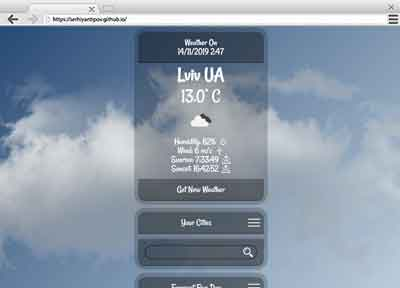
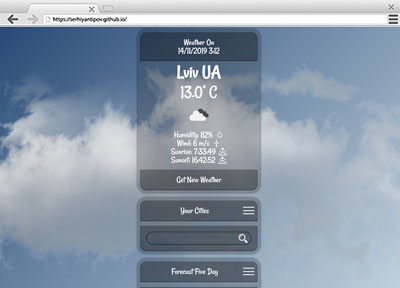
work version

diff --git a/site_10/js/index.js b/site_10/js/index.js
@@ -1,31 +1,27 @@
+const btnGetWeather = document.querySelector('.search-btn');
+const cityName = document.querySelector('.city-name');
+const weatherDate = document.querySelector('.weather-date');
+const temperature = document.querySelector('.temperature');
+const iconWeather = document.querySelector('.icon-weather');
+const humidity = document.querySelector('.humidity');
+const wind = document.querySelector('.wind');
+const sunrise = document.querySelector('.sunrise');
+const sunset = document.querySelector('.sunset');
+const newWeather = document.querySelector('.new-weather');
+const day5 = document.querySelector('.day-5');
+const threeHours = document.querySelector('.three-hours');
+const inputSearchCity = document.querySelector('.input-search-city');
+const defaultCity = ['lviv']
+const cityList = document.querySelector('.city-list');
 let weatherHour;
-let btnGetWeather = document.querySelector('.search-btn');
-
-let cityName = document.querySelector('.city-name');
-let weatherDate = document.querySelector('.weather-date');
-let temperature = document.querySelector('.temperature');
-let iconWeather = document.querySelector('.icon-weather');
-let humidity = document.querySelector('.humidity');
-let wind = document.querySelector('.wind');
-let sunrise = document.querySelector('.sunrise');
-let sunset = document.querySelector('.sunset');
-let newWeather = document.querySelector('.new-weather');
-let day5 = document.querySelector('.day-5');
-let threeHours = document.querySelector('.three-hours');
 let yourCities;
-let inputSearchCity = document.querySelector('.input-search-city');
-
-let defaultCity = ['lviv']
-let dataCitySet = new Set(defaultCity);
-let cityList = document.querySelector('.city-list');
 
 // start app =========================
 if (localStorage.getItem("city-name") === null || localStorage["city-name"] === '[]') {
-    localStorage.setItem("city-name", JSON.stringify(Array.from(dataCitySet)));
+    localStorage.setItem("city-name", JSON.stringify(defaultCity).toLowerCase());
     xhttpRequesrtWeather(defaultCity[0]);
 } else if (localStorage.getItem("city-name") != null) {
     let dataCityName = JSON.parse(localStorage["city-name"]);
-    dataCitySet = new Set(dataCityName);
     xhttpRequesrtWeather(dataCityName[0]);
 }
 
@@ -47,16 +43,29 @@ function xhttpRequesrtWeather(inputSearchCityValue) {
 };
 
 function callbackWeather(response, inputSearchCityValue) {
-    dataCitySet.add(inputSearchCityValue.toLowerCase())
-    localStorage.setItem("city-name", JSON.stringify(Array.from(dataCitySet)));
+    localStorageDataExchange(inputSearchCityValue)
     fillCityWeather(response);
     fetchWeatherHour(response.id)
+};
+
+// local Storage Data Exchange =============
+function localStorageDataExchange(inputSearchCityValue) {
+    let dataCityName = JSON.parse(localStorage["city-name"]);
+    let presenceInData = dataCityName.indexOf(inputSearchCityValue)
+    if (presenceInData == 0) {
+        return
+    } else if (presenceInData > 0) {
+        dataCityName.unshift(dataCityName.splice(presenceInData, 1)[0]);
+        localStorage.setItem("city-name", JSON.stringify(dataCityName));
+    } else if (presenceInData == -1) {
+        dataCityName.unshift(inputSearchCityValue);
+        localStorage.setItem("city-name", JSON.stringify(dataCityName));
+    }
 };
 
 // fill city weather ==================
 function fillCityWeather(response) {
     cityName.textContent = response.name + ' ' + response.sys.country;
-
     let tempWeatherTime = new Date(response.dt * 1000)
     let dateString;
     dateString = tempWeatherTime.getDate() + "/";
@@ -92,7 +101,7 @@ inputSearchCity.onkeypress = function (event) {
 }
 
 function searchCity() {
-    inputSearchCityValue = document.querySelector('.input-search-city').value;
+    inputSearchCityValue = document.querySelector('.input-search-city').value.toLowerCase();
     if (inputSearchCityValue.length > 2) {
         xhttpRequesrtWeather(inputSearchCityValue)
     }
@@ -100,7 +109,6 @@ function searchCity() {
 
 // visible/hide city List ============
 cityList.addEventListener('click', function () {
-
     let listSelectedCities = document.querySelector('.selected-city');
     listSelectedCities.classList.toggle('visible-city-list');
     cityList.classList.toggle('close-menu');
@@ -113,24 +121,24 @@ function creationCitylist() {
     let selectedCities = JSON.parse(localStorage["city-name"])
     let tempCityList = ""
     for (let i = 0; i < selectedCities.length; i++) {
+        selectedCities[i] = selectedCities[i].charAt(0).toUpperCase() + selectedCities[i].substr(1)
         tempCityList += `<li class="your-cities">${selectedCities[i]}<span></span></li>`
     }
     listSelectedCities.innerHTML = tempCityList;
-    selectCities(listSelectedCities)
+    selectCities()
 }
 
 // select city ===================
-function selectCities(listSelectedCities) {
+function selectCities() {
     yourCities = document.querySelectorAll('.your-cities');
     yourCities.forEach(function (data) {
         data.addEventListener('click', function (event) {
             if (event.toElement.localName == 'li' && event.toElement.localName != 'span') {
-                let tempCityName = event.target.firstChild.textContent;
+                let tempCityName = event.target.firstChild.textContent.toLowerCase();
                 xhttpRequesrtWeather(tempCityName);
-                // listSelectedCities.classList.toggle('visible-city-list');
-                lastElementlocalStorage(tempCityName)
+                firstElementlocalStorage(tempCityName)
             } else if (event.toElement.localName == 'span') {
-                let dellCity = event.toElement.parentElement.textContent
+                let dellCity = event.toElement.parentElement.textContent.toLowerCase()
                 dellSelectCities(dellCity, event)
             }
         })
@@ -139,43 +147,35 @@ function selectCities(listSelectedCities) {
 
 // New Weather ==================
 newWeather.addEventListener('click', function () {
-    xhttpRequesrtWeather(Array.from(dataCitySet)[0]);
+    let dataCityName = JSON.parse(localStorage["city-name"]);
+    xhttpRequesrtWeather(dataCityName[0]);
 })
 
 // moving the selected city to the first element localStorage
-function lastElementlocalStorage(tempCityName) {
+function firstElementlocalStorage(tempCityName) {
     let tempLocalStorage = JSON.parse(localStorage["city-name"]);
     tempLocalStorage.forEach(function (data, i) {
         if (data == tempCityName) {
             tempLocalStorage.unshift(tempLocalStorage.splice(i, 1)[0]);
         }
     })
-    dataCitySet = new Set(tempLocalStorage);
     localStorage.setItem("city-name", JSON.stringify(tempLocalStorage));
 }
 
-// dell selected city + (last city) ==============
+// dell selected city ==============
 function dellSelectCities(dellCity, event) {
-    dataCitySet.delete(dellCity);
     event.target.parentElement.remove()
     let tempLocalStorage = JSON.parse(localStorage["city-name"])
     tempLocalStorage.forEach(function (data, i) {
         if (data == dellCity) {
-            tempLocalStorage.splice(i, 1)
-            if (i == tempLocalStorage.length && tempLocalStorage.length > 1) {
+            tempLocalStorage.splice(i, 1);
+            if (i == 0 && tempLocalStorage.length > 0) {
                 xhttpRequesrtWeather(tempLocalStorage[0])
             }
         }
     })
     localStorage.setItem("city-name", JSON.stringify(tempLocalStorage));
 }
-
-// input 'search city' active ==============
-inputSearchCity.addEventListener('click', function () {
-    if (document.querySelector('.selected-city').classList.contains('visible-city-list') == true) {
-        // document.querySelector('.selected-city').classList.remove('visible-city-list');
-    }
-})
 
 // get weather 5 day ====================
 function fetchWeatherHour(cityId) {
@@ -191,7 +191,6 @@ function fetchWeatherHour(cityId) {
             console.log('the database did not load')
         });
 }
-
 
 day5.addEventListener('click', function () {
     if (weatherHour.cod == 200) {

diff --git a/site_10/css/style.css b/site_10/css/style.css
@@ -1,3 +1,8 @@
+@font-face {
+    font-family: 'Rancho-Regular';
+    src: url(../fonts/Rancho-Regular.ttf);
+}
+
 :root {
     --background-color: #00000030;
     --border-radius: 30px;
@@ -7,14 +12,9 @@
     --box-shadow: 0px 0px 7px 2px #00000069;
 }
 
-@font-face {
-    font-family: 'Rancho-Regular';
-    src: url(../fonts/Rancho-Regular.ttf);
-}
-
 body {
     background-color: #8599b0;
-    background: url(../img/body_bg.png), linear-gradient(135deg, #143868, #d8e6ee);
+    background: url(../img/body_bg.png), linear-gradient(105deg, #143868, #d8e6ee);
     background-size: cover;
 }
 
@@ -42,7 +42,6 @@ body {
 }
 
 /* city weather =========== */
-
 .weather-title {
     padding: 20px;
     border-top-right-radius: 20px;
@@ -136,14 +135,6 @@ body {
     background: url(../img/burger_02.png) center right 10px no-repeat, #0000004d;
 }
 
-
-.selected-city {
-    visibility: hidden;
-    height: 1px;
-    position: absolute;
-    top: -400px;
-}
-
 .your-cities span {
     display: inline-block;
     width: 40px;
@@ -174,11 +165,22 @@ body {
 .visible-city-list {
     visibility: visible;
     height: auto;
-    position: static;
 }
 
 .selected-city li:first-letter {
     text-transform: uppercase;
+}
+
+.selected-city {
+    visibility: hidden;
+    height: 0;
+    overflow: hidden;
+}
+
+.selected-city.visible-city-list {
+    visibility: visible;
+    height: auto;
+    overflow: visible;
 }
 
 .selected-city li {
@@ -196,6 +198,10 @@ body {
     user-select: none;
 }
 
+.selected-city li:first-child {
+    background-color: #00000025;
+}
+
 .selected-city li:hover {
     box-shadow: inset 0px 0px 3px 1px #000;
 }
@@ -208,6 +214,7 @@ body {
     background-color: #0000004d;
     box-shadow: 0px 1px 2px 1px #000000b3;
     position: relative;
+    margin-top: 20px;
 }
 
 .input-search-city {
@@ -253,30 +260,24 @@ body {
     height: 100%;
 }
 
-/* checkbox =================================== */
-
-.checkbox-hidden {
-    display: none;
-}
-
 .day-5,
 .city-list,
 .three-hours {
     padding-right: 50px;
 }
 
-
-/* =========================  */
-
+/* weather-hour =========================  */
 .weather-hour {
     margin-bottom: 20px;
 }
 
 .hour-date {
-    padding: 15px 20px;
-    margin: 20px 0 10px;
+    padding: 10px 20px;
+    margin: 25px 0 10px;
     border-radius: 30px;
     box-shadow: inset 0px 0px 3px 1px #000;
+    background-color: #00000030;
+    font-size: 46px;
 }
 
 .hour-time img {
@@ -284,14 +285,12 @@ body {
 }
 
 .three-hours-data {
-    position: absolute;
-    height: 1px;
-    top: -200px;
+    visibility: hidden;
+    height: 0;
     overflow: hidden;
 }
 
 .three-hours-data.fill {
-    position: relative;
-    top: 0;
+    visibility: visible;
     height: auto;
 }
